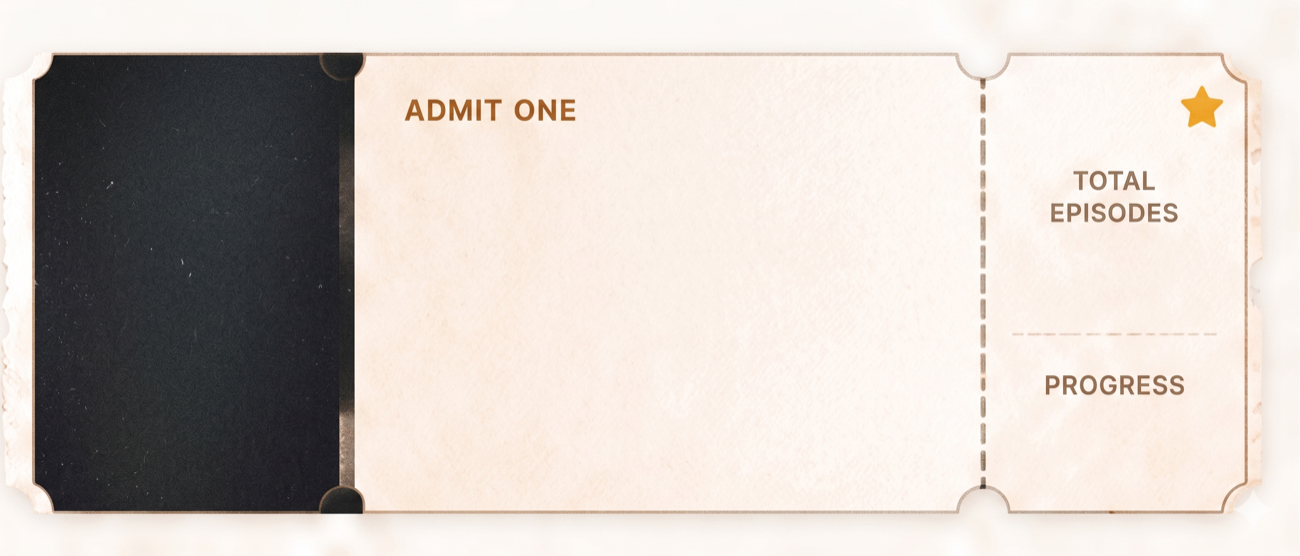
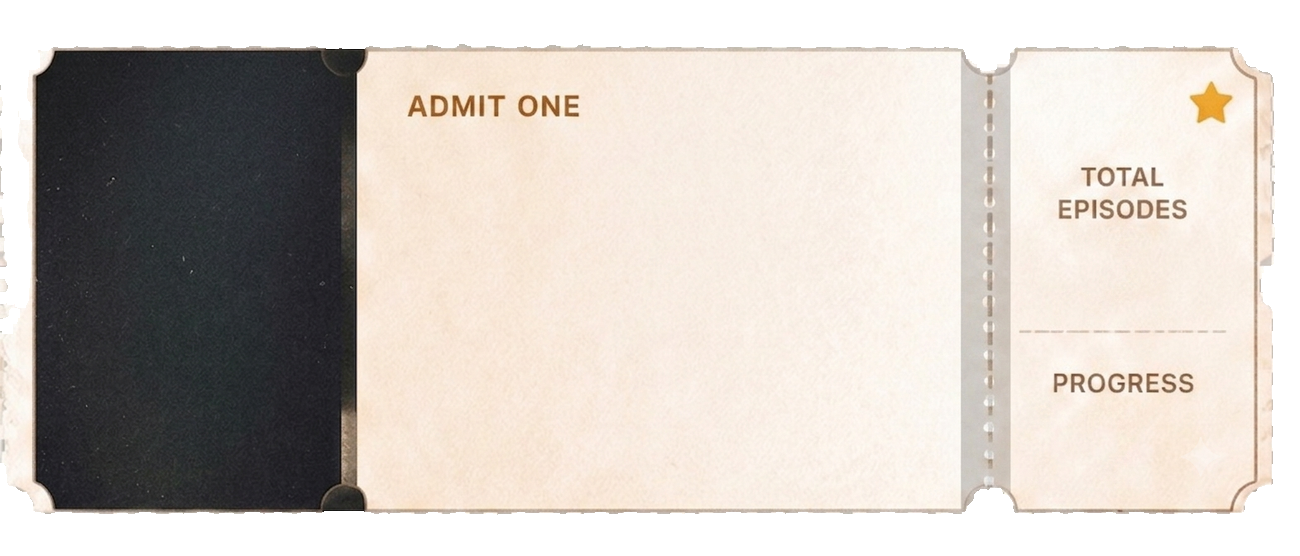
半券コレクションUI磨き込み: 詳細を上から表示/ポスター大きく/テンプレ切り抜き/数字位置/ポスター永続化
- TicketDetailView: 開いたら window.scrollTo(0,0) で常に一番上から表示
- ポスターを暗部にフィット（.tcimg-poster を拡大）
- テンプレ画像をユーザー提供の高画質版に差し替え＋市松模様の焼き込みを
  アルファ再構成で真の切り抜きに（warm/dark判別→dilate→穴埋め→erode・
  内部ホール0・teal/白/黒で縞なし検証）。aspect 1300/556・全オーバーレイ%再算出
- エピソード数/プログレス%をラベル真下に整列・★も再配置
- ポスターがリロードで消える対策: collection.js が TMDB ポスターを
  cl_total_eps_* に永続キャッシュ→myDramas欠落時のフォールバック。
  新規 TicketPoster.js（onError で色ブロックにフォールバック）を list/detail で使用

diff --git a/next-app/components/TicketPoster.js b/next-app/components/TicketPoster.js
@@ -1,0 +1,26 @@
+'use client';
+
+import { useState } from 'react';
+
+// 半券の左暗部に重ねるポスター。画像URLが無い／読み込み失敗時は頭文字の色ブロックにフォールバック。
+// リロードで画像が出たり出なかったりする問題への保険（CDN一時失敗でも空白にしない）。
+export default function TicketPoster({ src, label, color }) {
+  const [failed, setFailed] = useState(false);
+  if (src && !failed) {
+    return (
+      // eslint-disable-next-line @next/next/no-img-element
+      <img
+        className="tcimg-poster"
+        src={src}
+        alt=""
+        loading="lazy"
+        onError={() => setFailed(true)}
+      />
+    );
+  }
+  return (
+    <span className="tcimg-poster tcimg-poster-fallback" style={{ background: color }} aria-hidden="true">
+      {(label || '?').charAt(0)}
+    </span>
+  );
+}

diff --git a/next-app/components/TicketCollectionScreen.js b/next-app/components/TicketCollectionScreen.js
@@ -7,6 +7,7 @@ import { getStudySeconds, formatStudyTime } from '@/lib/studytime';
 import { loadFavorites, toggleFavorite } from '@/lib/favorites';
 import { fetchSeasons, getCachedSeasons, fullRangeLabel } from '@/lib/collection';
 import TicketDetailView from './TicketDetailView';
+import TicketPoster from './TicketPoster';
 
 // 半券コレクション（Phase 1：一覧画面）。
 // 学習履歴を作品単位に集約し、チケット型カードで「学習したドラマの記録」を見せる。
@@ -97,7 +98,10 @@ export default function TicketCollectionScreen() {
         const range = fullRangeLabel(sj?.seasons, e.episodes);
         const isFav = favs.includes(e.title);
         const status = total != null ? (e.studiedEps >= total ? 'done' : 'watching') : 'watching';
-        return { ...e, total, progress, range, isFav, status };
+        // posterPath は myDramas 由来が第一だが、欠落/同期ズレで消えることがある。
+        // tmdbId 単位で永続キャッシュした TMDB ポスターをフォールバックに（リロードで消える対策）。
+        const posterPath = e.posterPath || sj?.posterPath || null;
+        return { ...e, posterPath, total, progress, range, isFav, status };
       }),
     [entries, seasonsMap, favs]
   );
@@ -221,19 +225,12 @@ export default function TicketCollectionScreen() {
                   }
                 }}
               >
-                {/* 左の暗部にポスターを重ねる（無ければ頭文字） */}
-                {e.posterPath ? (
-                  // eslint-disable-next-line @next/next/no-img-element
-                  <img className="tcimg-poster" src={e.posterPath} alt="" loading="lazy" />
-                ) : (
-                  <span
-                    className="tcimg-poster tcimg-poster-fallback"
-                    style={{ background: POSTER_COLORS[i % POSTER_COLORS.length] }}
-                    aria-hidden="true"
-                  >
-                    {(e.enTitle || '?').charAt(0)}
-                  </span>
-                )}
+                {/* 左の暗部にポスターを重ねる（無ければ頭文字・読み込み失敗もフォールバック） */}
+                <TicketPoster
+                  src={e.posterPath}
+                  label={e.enTitle}
+                  color={POSTER_COLORS[i % POSTER_COLORS.length]}
+                />
 
                 {/* 本体（ADMIT ONE はテンプレ画像に焼かれている） */}
                 <div className="tcimg-body">

diff --git a/next-app/components/TicketDetailView.js b/next-app/components/TicketDetailView.js
@@ -1,13 +1,19 @@
 'use client';
 
-import { useMemo } from 'react';
+import { useEffect, useMemo } from 'react';
 import { loadHistory } from '@/lib/storage';
 import { getDramaStudySeconds, formatStudyTime } from '@/lib/studytime';
+import TicketPoster from './TicketPoster';
 
 // 半券の詳細ページ（Phase 2）。コレクション一覧のカードをタップで開くサブ画面。
 // 学習履歴＋TMDB（seasons キャッシュ）から、作品単位の学習記録を見せる。
 // データは捏造しない：episode タイトルは未保持のため SxE＋学習日で表現する。
 export default function TicketDetailView({ entry, seasons, onBack, onFav, onStudy, profileId }) {
+  // 半券を開いたら常に一番上から表示（一覧でスクロールした位置を引き継がない）。
+  useEffect(() => {
+    window.scrollTo(0, 0);
+  }, []);
+
   // 履歴からこのドラマのエピソード（日付つき）と学んだ単語を集める。
   const { eps, words } = useMemo(() => {
     const hist = loadHistory().filter((h) => h.drama?.title === entry.title);
@@ -64,14 +70,7 @@ export default function TicketDetailView({ entry, seasons, onBack, onFav, onStud
 
         {/* ヒーロー：チケット（画像テンプレを大きく） */}
         <div className="tcimg-card td-hero">
-          {entry.posterPath ? (
-            // eslint-disable-next-line @next/next/no-img-element
-            <img className="tcimg-poster" src={entry.posterPath} alt="" />
-          ) : (
-            <span className="tcimg-poster tcimg-poster-fallback" style={{ background: '#7B1FA2' }} aria-hidden="true">
-              {(entry.enTitle || '?').charAt(0)}
-            </span>
-          )}
+          <TicketPoster src={entry.posterPath} label={entry.enTitle} color="#7B1FA2" />
           <div className="tcimg-body">
             <div className="tcimg-title">{entry.enTitle}</div>
             {entry.jaTitle && <div className="tcimg-ja">{entry.jaTitle}</div>}

diff --git a/next-app/lib/collection.js b/next-app/lib/collection.js
@@ -11,8 +11,9 @@ export function getCachedSeasons(tmdbId) {
     const v = localStorage.getItem(epsCacheKey(tmdbId));
     if (!v) return null;
     const obj = JSON.parse(v);
-    // 旧キャッシュ（制作年フィールド firstYear が無い）は未取得扱いにして再取得させる＝自己治癒。
-    if (!obj || !('firstYear' in obj)) return null;
+    // 旧キャッシュ（制作年 firstYear / posterPath が無い）は未取得扱いにして再取得＝自己治癒。
+    // posterPath は「キーの有無」で判定（null でも取得済み扱い＝再取得ループを防ぐ）。
+    if (!obj || !('firstYear' in obj) || !('posterPath' in obj)) return null;
     return obj;
   } catch {
     return null;
@@ -33,7 +34,11 @@ export async function fetchSeasons(tmdbId, isMovie = false) {
     const total = seasons.reduce((a, s) => a + s.episodes, 0);
     const firstYear = (detail.first_air_date || '').slice(0, 4) || null;
     const lastYear = (detail.last_air_date || '').slice(0, 4) || null;
-    const out = { total, seasons, firstYear, lastYear };
+    // ポスター（半券の左暗部用）も一緒にキャッシュ＝myDramas/クラウド同期に依存せず
+    // tmdbId 単位で永続化し、リロードで消える問題を解消（既存 posterPath が無い時のフォールバック）。
+    const imgPath = detail.backdrop_path || detail.poster_path;
+    const posterPath = imgPath ? `https://image.tmdb.org/t/p/w780${imgPath}` : null;
+    const out = { total, seasons, firstYear, lastYear, posterPath };
     if (total > 0) {
       try {
         localStorage.setItem(epsCacheKey(tmdbId), JSON.stringify(out));

diff --git a/next-app/app/style.css b/next-app/app/style.css
@@ -5479,7 +5479,7 @@ html[data-theme="dark"] .bottom-nav { background: var(--surface); }
   position: relative;
   width: 100%;
   max-width: 300px; /* 1枚を小さめに（大きすぎ対策） */
-  aspect-ratio: 1300 / 556;
+  aspect-ratio: 1300 / 556; /* 透過切り抜きテンプレの実寸 */
   background: url('/collection-ticket.png') no-repeat center / 100% 100%;
   cursor: pointer;
   container-type: inline-size;
@@ -5491,7 +5491,7 @@ html[data-theme="dark"] .bottom-nav { background: var(--surface); }
 /* 左：ポスター（暗部に重ねる・無ければ頭文字） */
 .tcimg-poster {
   position: absolute;
-  left: 2.6%; top: 11%; width: 23.6%; height: 77%;
+  left: 3.3%; top: 10.5%; width: 23.5%; height: 81%; /* 暗部にフィット */
   object-fit: cover;
   border-radius: 1.6cqw;
 }
@@ -5513,18 +5513,18 @@ html[data-theme="dark"] .bottom-nav { background: var(--surface); }
 
 /* 右スタブの数字（ラベル TOTAL EPISODES / PROGRESS は画像） */
 .tcimg-eps {
-  position: absolute; left: 76%; width: 22%; top: 43%;
+  position: absolute; left: 80%; width: 19%; top: 45%;
   text-align: center; font-size: 6.4cqw; font-weight: 800; color: #2c241e; line-height: 1;
 }
 .tcimg-prog {
-  position: absolute; left: 76%; width: 22%; top: 81%;
+  position: absolute; left: 79.3%; width: 19%; top: 76%;
   text-align: center; font-size: 4.2cqw; font-weight: 800; color: var(--accent); line-height: 1;
 }
 .tcimg-prog.is-partial { color: #d98324; }
 
 /* お気に入り（画像の金★位置に重ねる。非お気に入りは紙色の円で金★をマスクして☆を出す） */
 .tcimg-fav {
-  position: absolute; top: 8%; left: 86.5%; width: 9%; height: 20%;
+  position: absolute; top: 12%; left: 89%; width: 9%; height: 13%;
   display: flex; align-items: center; justify-content: center;
   font-size: 5.2cqw; line-height: 1; color: #f5b301;
   background: none; border: none; cursor: pointer;